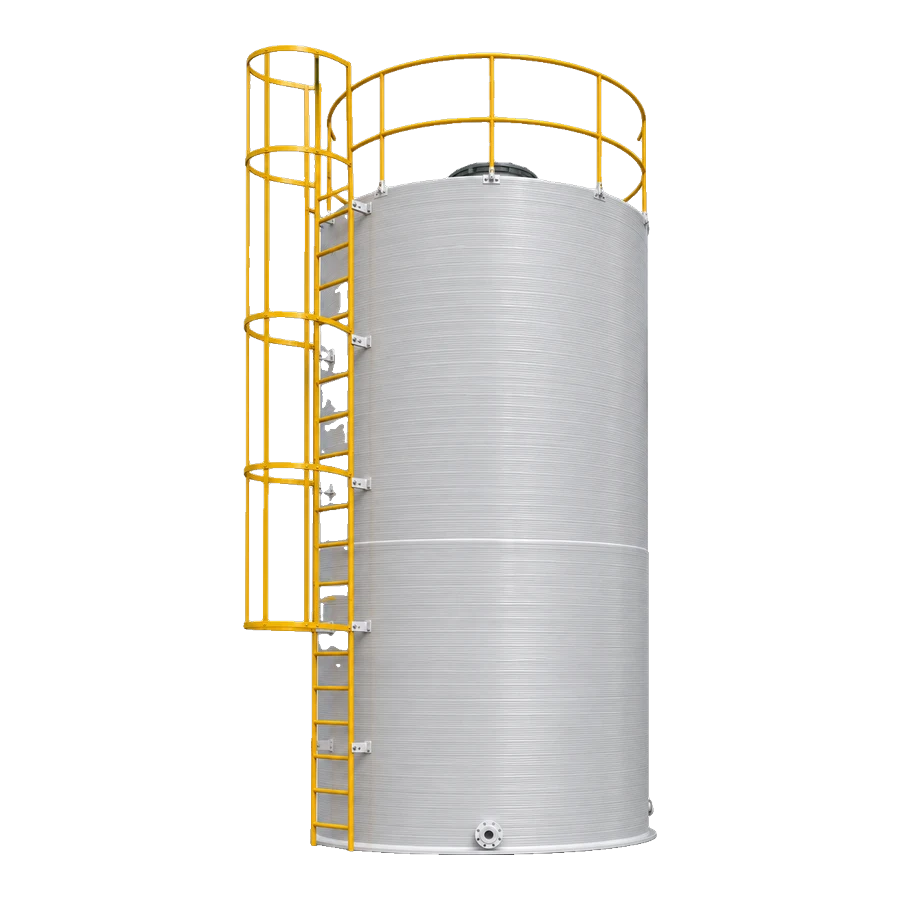
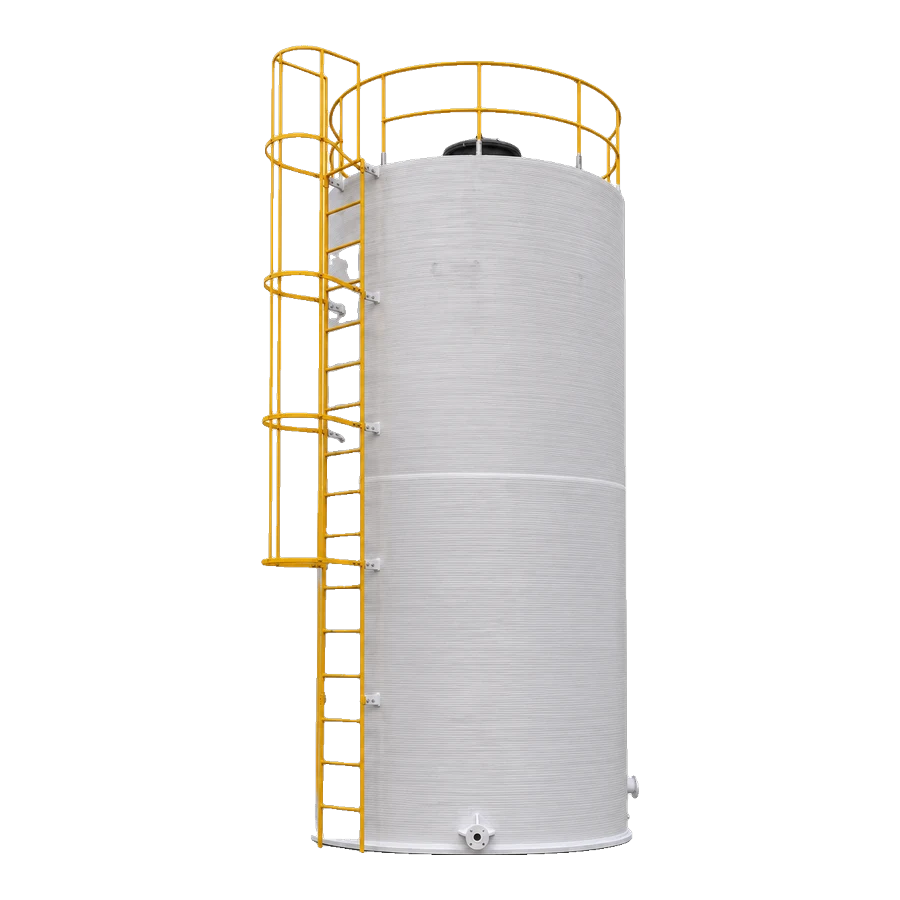
Portfolio ring: pickling tank in place of separation tank; realistic thermoplastic tank; full sewage treatment plant

diff --git a/dist/index.html b/dist/index.html
@@ -115,9 +115,9 @@
               <a class="pdet__link" href="products.html#storage">Explore the range →</a>
             </article>
             <article class="pdet">
-              <span class="pdet__n">Settling and separation</span>
-              <h3>Separation Tanks</h3>
-              <p>Compartmented tanks with weirs and baffles that separate oil, solids and liquids before treatment or discharge.</p>
+              <span class="pdet__n">Metal surface treatment</span>
+              <h3>Pickling Tanks</h3>
+              <p>Rectangular, ribbed PP tanks for pickling lines, where metal is immersed in acid to take off scale and rust.</p>
               <a class="pdet__link" href="products.html#storage">Explore the range →</a>
             </article>
             <article class="pdet">
@@ -145,7 +145,7 @@
               <a class="pdet__link" href="water-treatment.html">Explore the range →</a>
             </article>
           </div>
-          <ol class="port__index" aria-label="Product families"><li><button type="button" data-port-go="0"><span>01</span>Scrubbing Systems</button></li><li><button type="button" data-port-go="1"><span>02</span>FRP / GRP Tanks</button></li><li><button type="button" data-port-go="2"><span>03</span>Thermoplastic Tanks</button></li><li><button type="button" data-port-go="3"><span>04</span>Separation Tanks</button></li><li><button type="button" data-port-go="4"><span>05</span>Reaction Vessels</button></li><li><button type="button" data-port-go="5"><span>06</span>Vacuum Receivers</button></li><li><button type="button" data-port-go="6"><span>07</span>Centrifugal Blowers</button></li><li><button type="button" data-port-go="7"><span>08</span>Sewage Treatment Plants</button></li></ol>
+          <ol class="port__index" aria-label="Product families"><li><button type="button" data-port-go="0"><span>01</span>Scrubbing Systems</button></li><li><button type="button" data-port-go="1"><span>02</span>FRP / GRP Tanks</button></li><li><button type="button" data-port-go="2"><span>03</span>Thermoplastic Tanks</button></li><li><button type="button" data-port-go="3"><span>04</span>Pickling Tanks</button></li><li><button type="button" data-port-go="4"><span>05</span>Reaction Vessels</button></li><li><button type="button" data-port-go="5"><span>06</span>Vacuum Receivers</button></li><li><button type="button" data-port-go="6"><span>07</span>Centrifugal Blowers</button></li><li><button type="button" data-port-go="7"><span>08</span>Sewage Treatment Plants</button></li></ol>
           <div class="port__ctrl">
             <button class="round" type="button" data-port-prev aria-label="Previous product"><svg viewBox="0 0 16 16" aria-hidden="true"><path d="M10 3 5 8l5 5" fill="none" stroke="currentColor" stroke-width="1.6"/></svg></button>
             <button class="round" type="button" data-port-next aria-label="Next product"><svg viewBox="0 0 16 16" aria-hidden="true"><path d="m6 3 5 5-5 5" fill="none" stroke="currentColor" stroke-width="1.6"/></svg></button>
@@ -155,7 +155,7 @@
         </div>
         <div class="port__stage" tabindex="0" role="group" aria-label="Product portfolio: drag or use the arrow keys to turn">
           <div class="port__floor"></div>
-          <div class="port__ring" data-ring><figure class="pitem" data-port-item><img src="assets/portfolio/scrubber.webp?v=50c36b270e" alt="Scrubbing system (3D render based on a Plasto-Fab job)" width="900" height="900" loading="lazy" decoding="async" draggable="false"></figure><figure class="pitem" data-port-item><img src="assets/portfolio/frp-tanks.webp?v=8b38824fab" alt="FRP storage tanks (3D render based on a Plasto-Fab job)" width="900" height="900" loading="lazy" decoding="async" draggable="false"></figure><figure class="pitem" data-port-item><img src="assets/portfolio/thermo-tank.webp?v=059e96f6b2" alt="Thermoplastic storage tank (3D render based on a Plasto-Fab job)" width="900" height="900" loading="lazy" decoding="async" draggable="false"></figure><figure class="pitem" data-port-item><img src="assets/portfolio/separation-tank.webp?v=299fcf0185" alt="PP separation tank (3D render based on a Plasto-Fab job)" width="900" height="900" loading="lazy" decoding="async" draggable="false"></figure><figure class="pitem" data-port-item><img src="assets/portfolio/reaction-vessel.webp?v=d61d770d9d" alt="Reaction vessel (3D render based on a Plasto-Fab job)" width="900" height="900" loading="lazy" decoding="async" draggable="false"></figure><figure class="pitem" data-port-item><img src="assets/portfolio/vacuum-receiver.webp?v=fbd4e19136" alt="Vacuum receiver (3D render based on a Plasto-Fab job)" width="900" height="900" loading="lazy" decoding="async" draggable="false"></figure><figure class="pitem" data-port-item><img src="assets/portfolio/blower.webp?v=6a248eec6f" alt="Centrifugal blower (3D render based on a Plasto-Fab job)" width="900" height="900" loading="lazy" decoding="async" draggable="false"></figure><figure class="pitem" data-port-item><img src="assets/portfolio/stp.webp?v=a27e0b54d6" alt="Sewage treatment plant filters (3D render based on a Plasto-Fab job)" width="900" height="900" loading="lazy" decoding="async" draggable="false"></figure></div>
+          <div class="port__ring" data-ring><figure class="pitem" data-port-item><img src="assets/portfolio/scrubber.webp?v=50c36b270e" alt="Scrubbing system (3D render based on a Plasto-Fab job)" width="900" height="900" loading="lazy" decoding="async" draggable="false"></figure><figure class="pitem" data-port-item><img src="assets/portfolio/frp-tanks.webp?v=8b38824fab" alt="FRP storage tanks (3D render based on a Plasto-Fab job)" width="900" height="900" loading="lazy" decoding="async" draggable="false"></figure><figure class="pitem" data-port-item><img src="assets/portfolio/thermo-tank.webp?v=2cca8f8633" alt="Thermoplastic storage tank (3D render based on a Plasto-Fab job)" width="900" height="900" loading="lazy" decoding="async" draggable="false"></figure><figure class="pitem" data-port-item><img src="assets/portfolio/pickling-tank.webp?v=e0bfc35c99" alt="Ribbed PP pickling tank (3D render based on a Plasto-Fab job)" width="900" height="900" loading="lazy" decoding="async" draggable="false"></figure><figure class="pitem" data-port-item><img src="assets/portfolio/reaction-vessel.webp?v=d61d770d9d" alt="Reaction vessel (3D render based on a Plasto-Fab job)" width="900" height="900" loading="lazy" decoding="async" draggable="false"></figure><figure class="pitem" data-port-item><img src="assets/portfolio/vacuum-receiver.webp?v=fbd4e19136" alt="Vacuum receiver (3D render based on a Plasto-Fab job)" width="900" height="900" loading="lazy" decoding="async" draggable="false"></figure><figure class="pitem" data-port-item><img src="assets/portfolio/blower.webp?v=6a248eec6f" alt="Centrifugal blower (3D render based on a Plasto-Fab job)" width="900" height="900" loading="lazy" decoding="async" draggable="false"></figure><figure class="pitem" data-port-item><img src="assets/portfolio/stp.webp?v=50aabbfd53" alt="Complete sewage treatment plant: filters, treatment tank, control panel and pumps (3D render based on a Plasto-Fab job)" width="900" height="900" loading="lazy" decoding="async" draggable="false"></figure></div>
         </div>
       </div>
     </div>

diff --git a/index.html b/index.html
@@ -115,9 +115,9 @@
               <a class="pdet__link" href="products.html#storage">Explore the range →</a>
             </article>
             <article class="pdet">
-              <span class="pdet__n">Settling and separation</span>
-              <h3>Separation Tanks</h3>
-              <p>Compartmented tanks with weirs and baffles that separate oil, solids and liquids before treatment or discharge.</p>
+              <span class="pdet__n">Metal surface treatment</span>
+              <h3>Pickling Tanks</h3>
+              <p>Rectangular, ribbed PP tanks for pickling lines, where metal is immersed in acid to take off scale and rust.</p>
               <a class="pdet__link" href="products.html#storage">Explore the range →</a>
             </article>
             <article class="pdet">
@@ -145,7 +145,7 @@
               <a class="pdet__link" href="water-treatment.html">Explore the range →</a>
             </article>
           </div>
-          <ol class="port__index" aria-label="Product families"><li><button type="button" data-port-go="0"><span>01</span>Scrubbing Systems</button></li><li><button type="button" data-port-go="1"><span>02</span>FRP / GRP Tanks</button></li><li><button type="button" data-port-go="2"><span>03</span>Thermoplastic Tanks</button></li><li><button type="button" data-port-go="3"><span>04</span>Separation Tanks</button></li><li><button type="button" data-port-go="4"><span>05</span>Reaction Vessels</button></li><li><button type="button" data-port-go="5"><span>06</span>Vacuum Receivers</button></li><li><button type="button" data-port-go="6"><span>07</span>Centrifugal Blowers</button></li><li><button type="button" data-port-go="7"><span>08</span>Sewage Treatment Plants</button></li></ol>
+          <ol class="port__index" aria-label="Product families"><li><button type="button" data-port-go="0"><span>01</span>Scrubbing Systems</button></li><li><button type="button" data-port-go="1"><span>02</span>FRP / GRP Tanks</button></li><li><button type="button" data-port-go="2"><span>03</span>Thermoplastic Tanks</button></li><li><button type="button" data-port-go="3"><span>04</span>Pickling Tanks</button></li><li><button type="button" data-port-go="4"><span>05</span>Reaction Vessels</button></li><li><button type="button" data-port-go="5"><span>06</span>Vacuum Receivers</button></li><li><button type="button" data-port-go="6"><span>07</span>Centrifugal Blowers</button></li><li><button type="button" data-port-go="7"><span>08</span>Sewage Treatment Plants</button></li></ol>
           <div class="port__ctrl">
             <button class="round" type="button" data-port-prev aria-label="Previous product"><svg viewBox="0 0 16 16" aria-hidden="true"><path d="M10 3 5 8l5 5" fill="none" stroke="currentColor" stroke-width="1.6"/></svg></button>
             <button class="round" type="button" data-port-next aria-label="Next product"><svg viewBox="0 0 16 16" aria-hidden="true"><path d="m6 3 5 5-5 5" fill="none" stroke="currentColor" stroke-width="1.6"/></svg></button>
@@ -155,7 +155,7 @@
         </div>
         <div class="port__stage" tabindex="0" role="group" aria-label="Product portfolio: drag or use the arrow keys to turn">
           <div class="port__floor"></div>
-          <div class="port__ring" data-ring><figure class="pitem" data-port-item><img src="assets/portfolio/scrubber.webp?v=4" alt="Scrubbing system (3D render based on a Plasto-Fab job)" width="900" height="900" loading="lazy" decoding="async" draggable="false"></figure><figure class="pitem" data-port-item><img src="assets/portfolio/frp-tanks.webp?v=4" alt="FRP storage tanks (3D render based on a Plasto-Fab job)" width="900" height="900" loading="lazy" decoding="async" draggable="false"></figure><figure class="pitem" data-port-item><img src="assets/portfolio/thermo-tank.webp?v=4" alt="Thermoplastic storage tank (3D render based on a Plasto-Fab job)" width="900" height="900" loading="lazy" decoding="async" draggable="false"></figure><figure class="pitem" data-port-item><img src="assets/portfolio/separation-tank.webp?v=4" alt="PP separation tank (3D render based on a Plasto-Fab job)" width="900" height="900" loading="lazy" decoding="async" draggable="false"></figure><figure class="pitem" data-port-item><img src="assets/portfolio/reaction-vessel.webp?v=4" alt="Reaction vessel (3D render based on a Plasto-Fab job)" width="900" height="900" loading="lazy" decoding="async" draggable="false"></figure><figure class="pitem" data-port-item><img src="assets/portfolio/vacuum-receiver.webp?v=4" alt="Vacuum receiver (3D render based on a Plasto-Fab job)" width="900" height="900" loading="lazy" decoding="async" draggable="false"></figure><figure class="pitem" data-port-item><img src="assets/portfolio/blower.webp?v=4" alt="Centrifugal blower (3D render based on a Plasto-Fab job)" width="900" height="900" loading="lazy" decoding="async" draggable="false"></figure><figure class="pitem" data-port-item><img src="assets/portfolio/stp.webp?v=5" alt="Sewage treatment plant filters (3D render based on a Plasto-Fab job)" width="900" height="900" loading="lazy" decoding="async" draggable="false"></figure></div>
+          <div class="port__ring" data-ring><figure class="pitem" data-port-item><img src="assets/portfolio/scrubber.webp?v=4" alt="Scrubbing system (3D render based on a Plasto-Fab job)" width="900" height="900" loading="lazy" decoding="async" draggable="false"></figure><figure class="pitem" data-port-item><img src="assets/portfolio/frp-tanks.webp?v=4" alt="FRP storage tanks (3D render based on a Plasto-Fab job)" width="900" height="900" loading="lazy" decoding="async" draggable="false"></figure><figure class="pitem" data-port-item><img src="assets/portfolio/thermo-tank.webp?v=5" alt="Thermoplastic storage tank (3D render based on a Plasto-Fab job)" width="900" height="900" loading="lazy" decoding="async" draggable="false"></figure><figure class="pitem" data-port-item><img src="assets/portfolio/pickling-tank.webp?v=2" alt="Ribbed PP pickling tank (3D render based on a Plasto-Fab job)" width="900" height="900" loading="lazy" decoding="async" draggable="false"></figure><figure class="pitem" data-port-item><img src="assets/portfolio/reaction-vessel.webp?v=4" alt="Reaction vessel (3D render based on a Plasto-Fab job)" width="900" height="900" loading="lazy" decoding="async" draggable="false"></figure><figure class="pitem" data-port-item><img src="assets/portfolio/vacuum-receiver.webp?v=4" alt="Vacuum receiver (3D render based on a Plasto-Fab job)" width="900" height="900" loading="lazy" decoding="async" draggable="false"></figure><figure class="pitem" data-port-item><img src="assets/portfolio/blower.webp?v=4" alt="Centrifugal blower (3D render based on a Plasto-Fab job)" width="900" height="900" loading="lazy" decoding="async" draggable="false"></figure><figure class="pitem" data-port-item><img src="assets/portfolio/stp.webp?v=6" alt="Complete sewage treatment plant: filters, treatment tank, control panel and pumps (3D render based on a Plasto-Fab job)" width="900" height="900" loading="lazy" decoding="async" draggable="false"></figure></div>
         </div>
       </div>
     </div>

diff --git a/README.md b/README.md
@@ -26,7 +26,7 @@ The scrubber is meant to look like real equipment: a packed column with an exhau
 
 ## The rest of the home page
 
-- **Product portfolio** (`.port`): eight equipment families on a 3D ring (ducting left out on purpose) you turn by dragging or swiping (or the arrows, arrow keys or the list); only the front item is sharp, the rest are blurred so they don't pull the eye. It turns on its own while on screen until someone takes over; the page scrolls normally past it. The pictures are 3D studio renders made in ChatGPT from Plasto-Fab's own job photos (paint colours kept), saved in `ref/renders-from-photos/`; the photo references sent are in `ref/photo-refs/`. Each render had its background cut out (rembg `isnet-general-use`) and was fitted into a 900×900 transparent WebP. Source photos: scrubber ← `wix/scrubbing-system/01`, FRP tanks ← `storage-tanks/21`, thermoplastic tank ← `storage-tanks/12`, separation tank ← `sewage-plant/04`, reaction vessel ← `reaction-vessels/00`, vacuum receiver ← `vacuum-receiver/04`, blower ← `centrifugal-blower/00`, STP ← `sewage-plant/02`. The first Codex renders are still in `ref/renders/`.
+- **Product portfolio** (`.port`): eight equipment families on a 3D ring (ducting left out on purpose) you turn by dragging or swiping (or the arrows, arrow keys or the list); only the front item is sharp, the rest are blurred so they don't pull the eye. It turns on its own while on screen until someone takes over; the page scrolls normally past it. The pictures are 3D studio renders made in ChatGPT from Plasto-Fab's own job photos (paint colours kept), saved in `ref/renders-from-photos/`; the photo references sent are in `ref/photo-refs/`. Each render had its background cut out (rembg `isnet-general-use`) and was fitted into a 900×900 transparent WebP. Source photos: scrubber ← `wix/scrubbing-system/01`, FRP tanks ← `storage-tanks/21`, thermoplastic tank ← `storage-tanks/12`, pickling tank ← `storage-tanks/00`, reaction vessel ← `reaction-vessels/00`, vacuum receiver ← `vacuum-receiver/04`, blower ← `centrifugal-blower/00`, STP ← `sewage-plant/02` (the whole plant: filters, treatment tank, control panel, pumps; its background was keyed out from the edges, because the AI cut-out dropped the beige tank). The first Codex renders are still in `ref/renders/`.
 - **Work gallery** (`#range`): 10 cards of real work photos in a strip that scrolls sideways (arrows, drag, swipe or arrow keys), including FRP/GRP, thermoplastic and pickling tanks. Each photo is shown whole, over a soft blur of itself. Each card's "Get a quote" ticks the matching project type in the form at the bottom.
 - **Industries:** chemical, pharma, water, electroplating and the others they serve.
 - **Why choose Plasto-Fab:** four points as cards with big gradient numbers.
